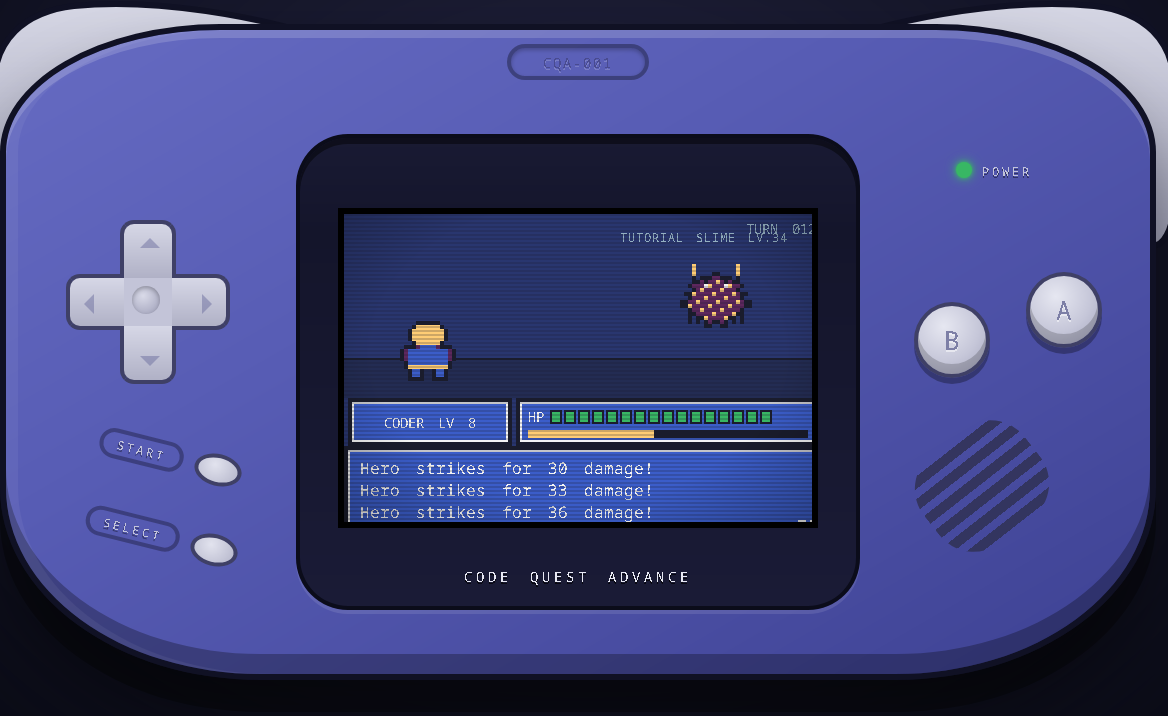
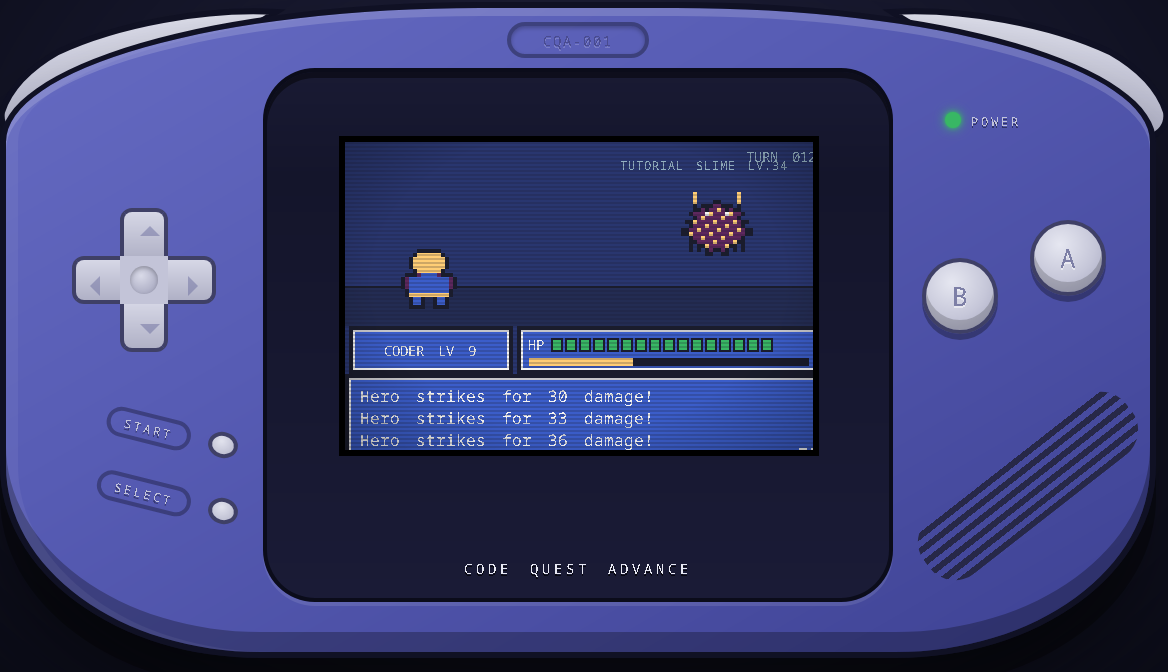
Converge shell to reference via measurement loop (worst delta 1.5%)
Replaced eyeball iteration with an objective loop: a Pillow script
(docs/tools/measure_gba.py) color-segments an image into components
(lens, lcd, dpad, A/B, START/SELECT, shoulders, LED, speaker) and
reports each bbox in body-relative fractions; the reference art's
numbers live in docs/tools/reference-measurements.json. CSS was set to
the measured targets and the built app re-measured each round until
every component center landed within 1.5% of the reference (most under
0.7%), sizes within a few percent.

Notable corrections the measurements forced: the body top is a wide
dome (border-radius 240/70 — corners drop ~50px below the center),
the lens is 319x271 at y30, the D-pad is 72px at (33,100), A/B are
39px at measured centers, START/SELECT ovals are 18px with banner
labels, the speaker is a long narrow 38-degree band (128x36), and the
shoulder crescents sit *below* the body's topmost point, hugging the
corner arcs with ~15px thickness. Screenshots, reference-compare, and
tooling committed.

diff --git a/src/styles.css b/src/styles.css
@@ -59,8 +59,8 @@ html, body {
   flex: none;
   background: linear-gradient(150deg, #666bc2 0%, #575cb4 38%, #4a4ea3 72%, #3d4192 100%);
   border: 3px solid #101124;
-  /* flat-ish top corners, bulging sides, big bottom grips */
-  border-radius: 110px 110px 130px 130px / 64px 64px 96px 96px;
+  /* wide dome top (center high, corners low), big bottom grips — measured */
+  border-radius: 240px 240px 130px 130px / 70px 70px 96px 96px;
   box-shadow:
     inset 0 4px 0 rgba(255,255,255,.16),
     inset 6px 0 0 rgba(255,255,255,.05),
@@ -99,10 +99,10 @@ html, body {
   /* lens proportions taken from the reference: 53% of body width, 80% of height */
   position: absolute;
   left: 50%;
-  top: 52px;
+  top: 30px;
   transform: translateX(-50%);
-  width: 282px;
-  height: 238px;
+  width: 315px;
+  height: 267px;
   background: linear-gradient(#191a33, #14152b 20%, #1a1b36);
   border: 2px solid #0b0c1a;
   border-radius: 26px;
@@ -121,8 +121,8 @@ html, body {
 .power-led {
   /* top-right of the face, right of the lens, with its POWER label */
   position: absolute;
-  left: 328px;
-  top: 12px;
+  left: 339px;
+  top: 20px;
   width: 8px;
   height: 8px;
   border-radius: 50%;
@@ -145,7 +145,7 @@ html, body {
 #screen {
   position: absolute;
   left: 50%;
-  top: 35px;
+  top: 32px;
   margin-left: -120px;
   width: 240px;
   height: 160px;
@@ -194,10 +194,10 @@ html, body {
 #dpad {
   /* fully on the left wing, clear of the lens, per the reference */
   position: absolute;
-  left: 30px;
-  top: 95px;
-  width: 82px;
-  height: 82px;
+  left: 33px;
+  top: 100px;
+  width: 72px;
+  height: 72px;
 }
 .dpad-btn {
   position: absolute;
@@ -217,13 +217,13 @@ html, body {
 .dpad-left::after  { top: 8px; left: 7px;    border-right-color: #6e70a0; border-left-width: 0; }
 .dpad-right::after { top: 8px; right: 7px;   border-left-color: #6e70a0; border-right-width: 0; }
 .dpad-btn.pressed, .ab.pressed, .pill.pressed { filter: brightness(1.45); }
-.dpad-up    { left: 27px; top: 0;    width: 28px; height: 29px; border-radius: 7px 7px 0 0; border-bottom: 0; }
-.dpad-down  { left: 27px; bottom: 0; width: 28px; height: 29px; border-radius: 0 0 7px 7px; border-top: 0; }
-.dpad-left  { left: 0;    top: 27px; width: 29px; height: 28px; border-radius: 7px 0 0 7px; border-right: 0; }
-.dpad-right { right: 0;   top: 27px; width: 29px; height: 28px; border-radius: 0 7px 7px 0; border-left: 0; }
+.dpad-up    { left: 24px; top: 0;    width: 24px; height: 25px; border-radius: 6px 6px 0 0; border-bottom: 0; }
+.dpad-down  { left: 24px; bottom: 0; width: 24px; height: 25px; border-radius: 0 0 6px 6px; border-top: 0; }
+.dpad-left  { left: 0;    top: 24px; width: 25px; height: 24px; border-radius: 6px 0 0 6px; border-right: 0; }
+.dpad-right { right: 0;   top: 24px; width: 25px; height: 24px; border-radius: 0 6px 6px 0; border-left: 0; }
 .dpad-core {
   position: absolute;
-  left: 29px; top: 29px;
+  left: 24px; top: 24px;
   width: 24px; height: 24px;
   background: #c3c4d8;
   pointer-events: none;
@@ -231,7 +231,7 @@ html, body {
 .dpad-core::after {
   content: '';
   position: absolute;
-  left: 4px; top: 4px;
+  left: 5px; top: 5px;
   width: 14px; height: 14px;
   border-radius: 50%;
   background: radial-gradient(circle at 40% 35%, #d9dae8, #9d9eb8);
@@ -253,8 +253,8 @@ html, body {
 }
 .ab span { font-size: 13px; color: #7d7fa6; pointer-events: none; text-shadow: 0 1px 0 rgba(255,255,255,.5); }
 .ab.pressed { transform: translateY(2px); box-shadow: inset 0 -2px 0 rgba(0,0,0,.3); }
-#btn-a { right: 24px; top: 121px; }
-#btn-b { right: 80px; top: 136px; }
+#btn-a { right: 22px; top: 106px; }
+#btn-b { right: 76px; top: 125px; }
 .ab-label {
   position: absolute;
   font-size: 7px;
@@ -268,8 +268,8 @@ html, body {
 /* small oval button with an angled label banner to its left, like the real unit */
 .pill {
   position: absolute;
-  width: 24px;
-  height: 16px;
+  width: 15px;
+  height: 13px;
   background: radial-gradient(circle at 40% 30%, #e2e3ee, #b4b5ca);
   border: 2px solid #3f4066;
   border-radius: 50%;
@@ -278,7 +278,7 @@ html, body {
 }
 .pill span {
   position: absolute;
-  right: 28px;
+  right: 22px;
   top: -2px;
   padding: 2px 7px 1px;
   border: 2px solid rgba(28,29,62,.45);
@@ -291,21 +291,21 @@ html, body {
   white-space: nowrap;
 }
 /* stacked below the D-pad: START above SELECT */
-#btn-start  { left: 94px; top: 212px; }
-#btn-select { left: 92px; top: 252px; }
+#btn-start  { left: 101px; top: 212px; }
+#btn-select { left: 101px; top: 245px; }
 
 .speaker {
   /* diagonal slit grille, bottom-right wing */
   position: absolute;
-  right: 52px;
-  bottom: 66px;
-  width: 64px;
-  height: 56px;
+  right: -3px;
+  bottom: 65px;
+  width: 128px;
+  height: 36px;
   transform: rotate(-38deg);
-  border-radius: 22px;
+  border-radius: 16px;
   background: repeating-linear-gradient(
     to bottom,
-    transparent 0 4px, #33345c 4px 9px);
+    transparent 0 3px, #262744 3px 6px);
   opacity: .95;
 }
 .shell-tag {

diff --git a/src/index.html b/src/index.html
@@ -13,13 +13,13 @@
         <svg id="shoulders" viewBox="-20 -20 618 368" aria-hidden="true">
           <defs>
             <linearGradient id="shldGrad" x1="0" y1="0" x2="0" y2="1">
-              <stop offset="0" stop-color="#d6d7e5"/>
-              <stop offset="1" stop-color="#a6a7bd"/>
+              <stop offset="0" stop-color="#dfe0ec"/>
+              <stop offset="1" stop-color="#b4b5ca"/>
             </linearGradient>
           </defs>
-          <path d="M 172 8 C 126 -8, 72 -16, 34 -12 C 8 -9, -5 6, -6 26 C -7 50, -8 74, -6 88 C -5 100, -1 108, 5 108 C 10 108, 14 102, 17 95 C 26 76, 66 42, 172 8 Z"
+          <path d="M 135 2 C 100 0, 56 8, 26 22 C 12 30, 2 40, -2 52 C -3 58, 1 64, 7 64 C 40 56, 90 30, 135 2 Z"
                 fill="url(#shldGrad)" stroke="#101124" stroke-width="3"/>
-          <path d="M 406 8 C 452 -8, 506 -16, 544 -12 C 570 -9, 583 6, 584 26 C 585 50, 586 74, 584 88 C 583 100, 579 108, 573 108 C 568 108, 564 102, 561 95 C 552 76, 512 42, 406 8 Z"
+          <path d="M 443 2 C 478 0, 522 8, 552 22 C 566 30, 576 40, 580 52 C 581 58, 577 64, 571 64 C 538 56, 488 30, 443 2 Z"
                 fill="url(#shldGrad)" stroke="#101124" stroke-width="3"/>
         </svg>
 

diff --git a/src/main.js b/src/main.js
@@ -308,7 +308,7 @@
 
   // ---------------------------------------------------------- scale-to-fit shell
   function fit() {
-    const s = Math.min(window.innerWidth / 584, window.innerHeight / 354);
+    const s = Math.min(window.innerWidth / 584, window.innerHeight / 336);
     const snapped = s >= 1 ? Math.floor(s * 2) / 2 : Math.max(0.35, s); // half-integer steps, integer look
     scaleEl.style.transform = `scale(${snapped})`;
   }

diff --git a/docs/tools/measure_gba.py b/docs/tools/measure_gba.py
@@ -1,0 +1,165 @@
+#!/usr/bin/env /usr/bin/python3
+"""Segment a GBA face image (reference art or app screenshot) into components
+and report each bbox in body-relative fractions, so two images can be compared
+regardless of scale."""
+import sys, json
+from collections import deque
+from PIL import Image
+
+def load(path):
+    im = Image.open(path).convert('RGB')
+    return im, im.load()
+
+def measure(path, kind):
+    im, px = load(path)
+    W, H = im.size
+
+    def is_bg_seed(p):
+        r, g, b = p
+        if kind == 'ref':
+            return (r > 110 and r - g > 50 and r - b > 50) or (r > 200 and g > 200 and b > 200)
+        return max(p) < 60
+
+    # flood background from corners/edges
+    bg = bytearray(W * H)
+    dq = deque()
+    for x in range(W):
+        for y in (0, H - 1):
+            if is_bg_seed(px[x, y]) and not bg[y * W + x]:
+                bg[y * W + x] = 1; dq.append((x, y))
+    for y in range(H):
+        for x in (0, W - 1):
+            if is_bg_seed(px[x, y]) and not bg[y * W + x]:
+                bg[y * W + x] = 1; dq.append((x, y))
+    while dq:
+        x, y = dq.popleft()
+        for nx, ny in ((x+1,y),(x-1,y),(x,y+1),(x,y-1)):
+            if 0 <= nx < W and 0 <= ny < H and not bg[ny * W + nx] and is_bg_seed(px[nx, ny]):
+                bg[ny * W + nx] = 1; dq.append((nx, ny))
+
+    def cls(p):
+        r, g, b = p
+        mx, mn = max(r, g, b), min(r, g, b)
+        if g > 110 and g - r > 40 and g - b > 40: return 'led'
+        if mn > 95 and mx - mn < 45 and mx > 135: return 'gray'
+        if mx < 78: return 'dark'
+        if b - max(r, g) > 25 and b > 95: return 'body'
+        return 'other'
+
+    # body bbox from indigo pixels
+    bx0 = by0 = 10**9; bx1 = by1 = -1
+    labels = {}
+    for y in range(H):
+        for x in range(W):
+            if bg[y * W + x]: continue
+            c = cls(px[x, y])
+            if c == 'body':
+                if x < bx0: bx0 = x
+                if x > bx1: bx1 = x
+                if y < by0: by0 = y
+                if y > by1: by1 = y
+    bw, bh = bx1 - bx0 + 1, by1 - by0 + 1
+
+    # connected components for gray / dark / led
+    seen = bytearray(W * H)
+    blobs = []
+    for y0 in range(H):
+        for x0 in range(W):
+            i0 = y0 * W + x0
+            if seen[i0] or bg[i0]: continue
+            c0 = cls(px[x0, y0])
+            if c0 not in ('gray', 'dark', 'led'): seen[i0] = 1; continue
+            # BFS
+            seen[i0] = 1
+            q = deque([(x0, y0)])
+            n = 0; mnx = mxx = x0; mny = mxy = y0
+            while q:
+                x, y = q.popleft(); n += 1
+                if x < mnx: mnx = x
+                if x > mxx: mxx = x
+                if y < mny: mny = y
+                if y > mxy: mxy = y
+                for nx, ny in ((x+1,y),(x-1,y),(x,y+1),(x,y-1)):
+                    j = ny * W + nx
+                    if 0 <= nx < W and 0 <= ny < H and not seen[j] and not bg[j] and cls(px[nx, ny]) == c0:
+                        seen[j] = 1; q.append((nx, ny))
+            if n > 60:
+                blobs.append({'cls': c0, 'n': n, 'box': (mnx, mny, mxx, mxy)})
+
+    def frac(box):
+        x0, y0, x1, y1 = box
+        return {'cx': round((x0 + x1) / 2 - bx0, 1) / bw, 'cy': round((y0 + y1) / 2 - by0, 1) / bh,
+                'w': (x1 - x0 + 1) / bw, 'h': (y1 - y0 + 1) / bh}
+
+    out = {'size': [W, H], 'body': [bx0, by0, bw, bh], 'aspect': round(bw / bh, 3), 'components': {}}
+    G = [b for b in blobs if b['cls'] == 'gray']
+    D = [b for b in blobs if b['cls'] == 'dark']
+    L = [b for b in blobs if b['cls'] == 'led']
+
+    def fx(b): return ((b['box'][0] + b['box'][2]) / 2 - bx0) / bw
+    def fy(b): return ((b['box'][1] + b['box'][3]) / 2 - by0) / bh
+
+    # lens: largest dark blob near center
+    lens = max((b for b in D if 0.25 < fx(b) < 0.75), key=lambda b: b['n'], default=None)
+    if lens: out['components']['lens'] = frac(lens['box'])
+
+    # lcd: largest gray blob fully inside lens (reference art only, usually)
+    if lens:
+        lx0, ly0, lx1, ly1 = lens['box']
+        lcd = max((b for b in G if b['box'][0] > lx0 and b['box'][2] < lx1
+                   and b['box'][1] > ly0 and b['box'][3] < ly1), key=lambda b: b['n'], default=None)
+        if lcd:
+            out['components']['lcd'] = frac(lcd['box'])
+            G = [b for b in G if b is not lcd]
+
+    # shoulders: gray blobs whose top touches the top strip
+    for b in sorted(G, key=lambda b: -b['n']):
+        if (b['box'][1] - by0) / bh < 0.04 and b['n'] > 400:
+            name = 'shoulder_l' if fx(b) < 0.5 else 'shoulder_r'
+            if name not in out['components']: out['components'][name] = frac(b['box'])
+    G = [b for b in G if ((b['box'][1] - by0) / bh) >= 0.04 or b['n'] <= 400]
+
+    # dpad: largest gray on left-middle
+    dpad = max((b for b in G if fx(b) < 0.35 and 0.2 < fy(b) < 0.8), key=lambda b: b['n'], default=None)
+    if dpad:
+        out['components']['dpad'] = frac(dpad['box']); G = [b for b in G if b is not dpad]
+
+    # A and B on the right: round-ish blobs only, two largest; rightmost = A
+    def roundish(b):
+        x0, y0, x1, y1 = b['box']
+        w, h = x1 - x0 + 1, y1 - y0 + 1
+        return 0.7 < w / h < 1.4
+    ab = sorted((b for b in G if fx(b) > 0.6 and fy(b) < 0.8 and b['n'] > 300 and roundish(b)),
+                key=lambda b: -b['n'])[:2]
+    ab.sort(key=lambda b: -fx(b))
+    if ab: out['components']['btn_a'] = frac(ab[0]['box'])
+    if len(ab) > 1: out['components']['btn_b'] = frac(ab[1]['box'])
+
+    # start/select: bottom-left small grays, two largest, upper = start
+    ss = sorted((b for b in G if fx(b) < 0.32 and fy(b) > 0.55 and b['n'] > 150), key=lambda b: -b['n'])[:2]
+    ss.sort(key=lambda b: fy(b))
+    if ss: out['components']['btn_start'] = frac(ss[0]['box'])
+    if len(ss) > 1: out['components']['btn_select'] = frac(ss[1]['box'])
+
+    # led
+    if L: out['components']['led'] = frac(max(L, key=lambda b: b['n'])['box'])
+
+    # speaker: aggregate small dark blobs bottom-right, not overlapping gray boxes
+    def overlaps_gray(b):
+        x0, y0, x1, y1 = b['box']
+        for g in G + ab + ss:
+            gx0, gy0, gx1, gy1 = g['box']
+            if x0 <= gx1 + 4 and x1 >= gx0 - 4 and y0 <= gy1 + 4 and y1 >= gy0 - 4: return True
+        return False
+    sp = [b for b in D if b is not lens and fx(b) > 0.7 and 0.45 < fy(b) < 0.95
+          and b['n'] < 20000 and not overlaps_gray(b)]
+    if sp:
+        x0 = min(b['box'][0] for b in sp); y0 = min(b['box'][1] for b in sp)
+        x1 = max(b['box'][2] for b in sp); y1 = max(b['box'][3] for b in sp)
+        out['components']['speaker'] = frac((x0, y0, x1, y1))
+
+    return out
+
+if __name__ == '__main__':
+    path, kind = sys.argv[1], sys.argv[2]  # kind: ref | shot
+    print(json.dumps(measure(path, kind), indent=1))
